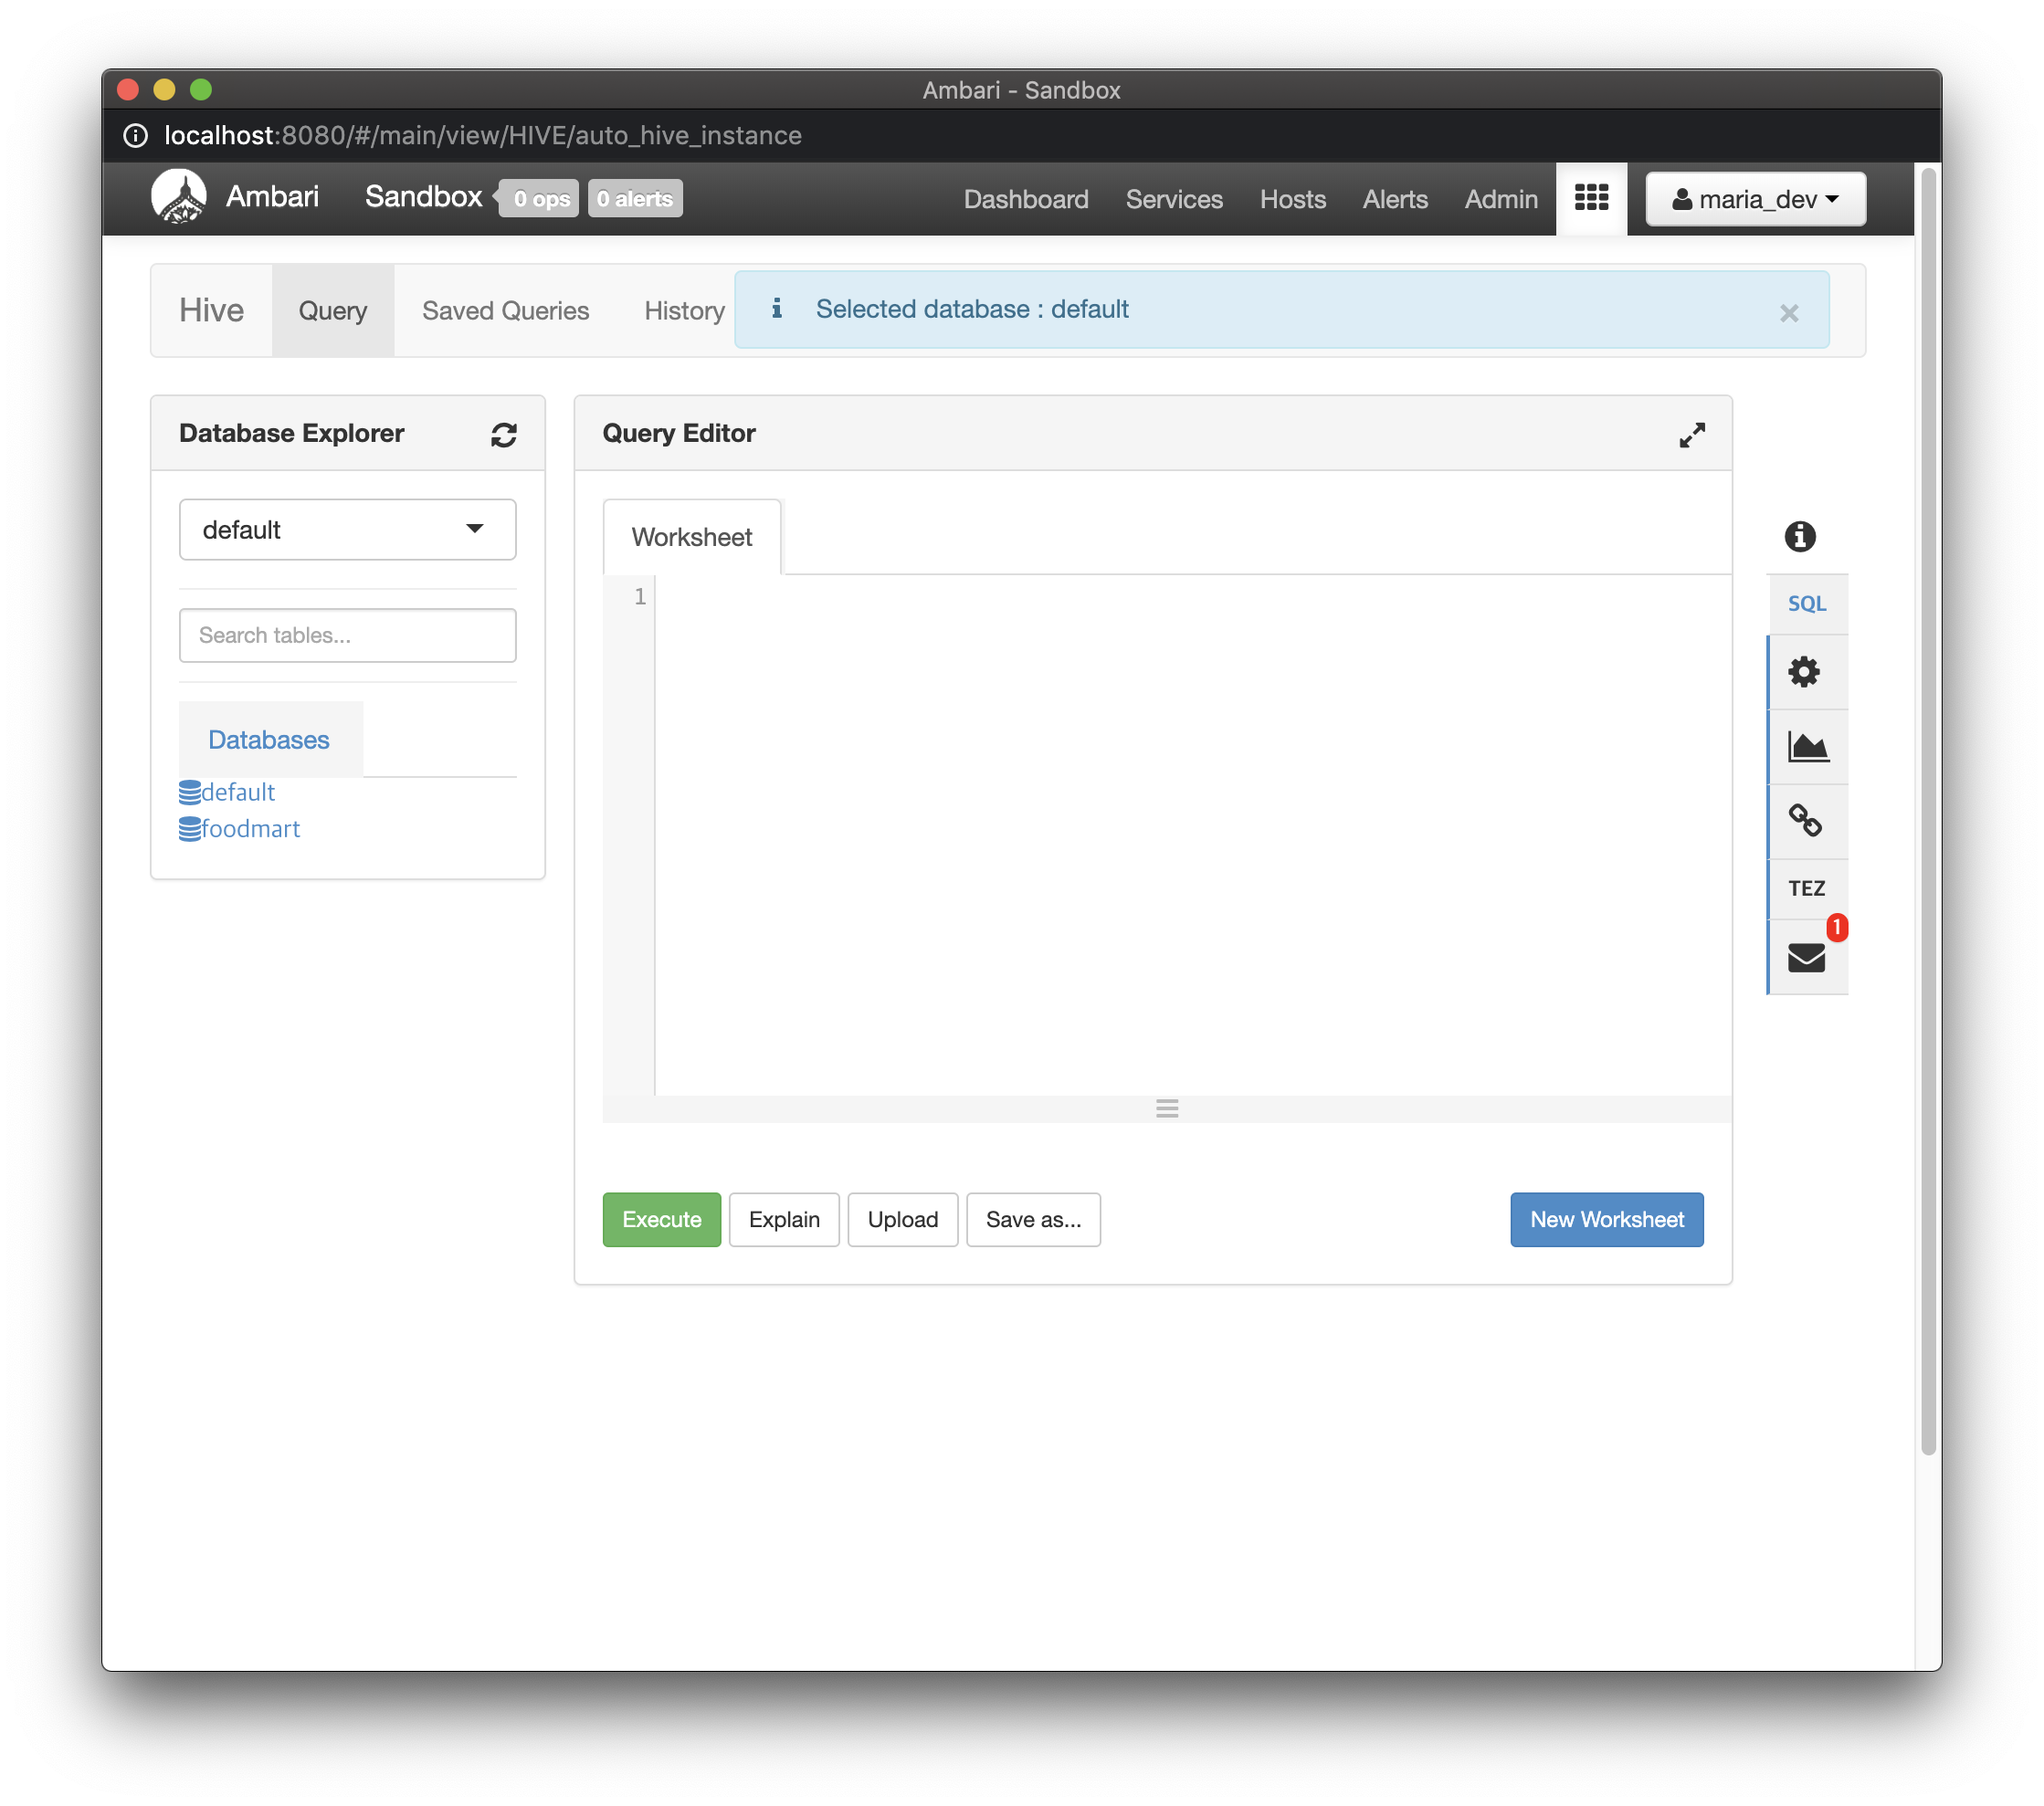
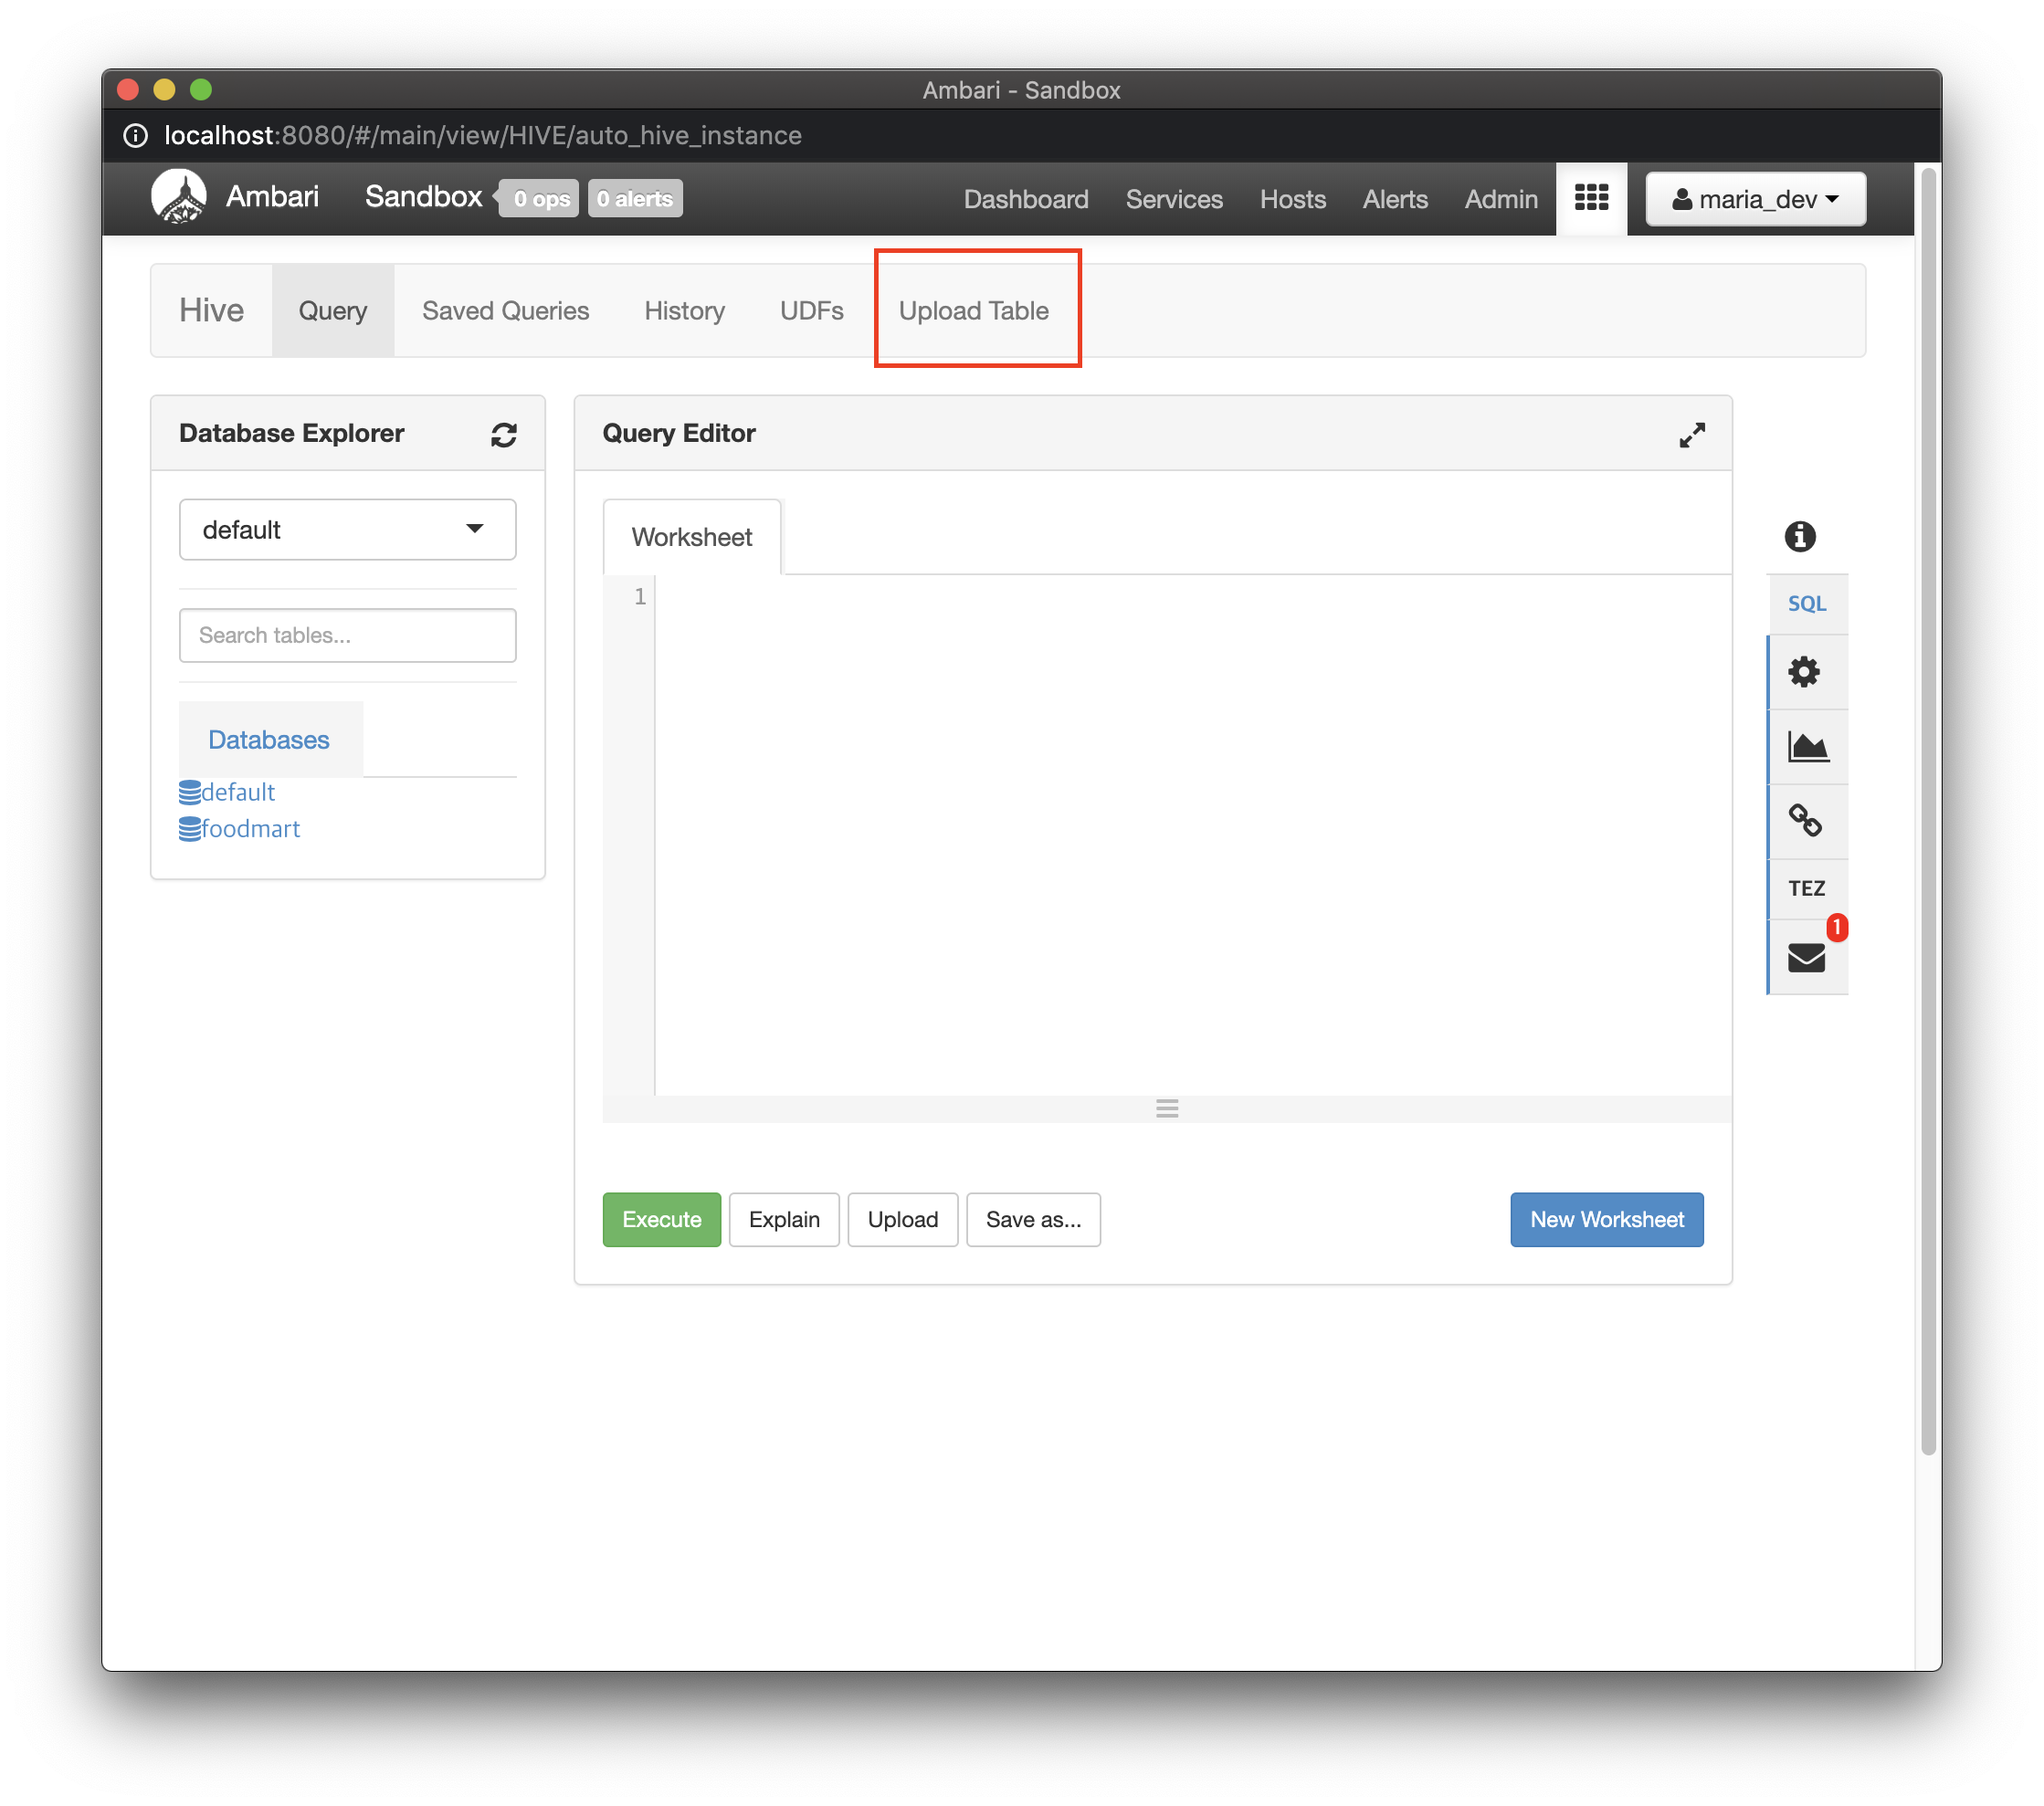
1223

Changed region(s): [[0.3391, 0.1234, 0.8941, 0.2159]]

diff --git a/_posts/2019-12-19-hadoop_01.md b/_posts/2019-12-19-hadoop_01.md
@@ -72,7 +72,7 @@ https://hongku.tistory.com/64
 
 ![PNG](/assets/img/post_img/2019-12-19-hadoop_01/img_02-7.png){: .align-center}
 
-웹 브라우저에서 Welcome Screen에 접속되면 `HDP` 설치가 정상적으로 된 것입니다. `LAUNCH DASHBOARD` 버튼을 누르고 ID, Password에 모두 `maria_dev`를 입력하여 로그인합니다.
+웹 브라우저에서 Welcome Screen에 접속되면 `HDP` 설치가 정상적으로 된 것입니다. `LAUNCH DASHBOARD` 버튼을 누르고 Username, Password에 모두 `maria_dev`를 입력하여 로그인합니다.
 
 <br>
 
@@ -83,14 +83,101 @@ Ambari 대시보드가 출력됩니다.
 
 ## 3.하둡에 데이터 임포트하기
 
-- 하둡에 임포트할 데이터 예제를 [Grouplens-Datasets](https://grouplens.org/datasets/movielens/)에서 `ml-100k.zip` 다운로드합니다.
-
 ![PNG](/assets/img/post_img/2019-12-19-hadoop_01/img_03-1.png){: .align-center}
+
+- 하둡에 임포트할 데이터 예제를 [Grouplens-Datasets](https://grouplens.org/datasets/movielens/)에서 `ml-100k.zip` 다운로드합니다. 압축 파일 내에 `u.data`와 `u.item`파일을 하둡에 임포트해보겠습니다. `u.data`는 영화에 대한 평점이 담겨 있는 `tab`으로 구분된 데이터이며, `u.item`은 영화 이름 등이 담겨 있는 `|(pipe)`로 구분된 데이터입니다.
 
 <br>
 
 ![PNG](/assets/img/post_img/2019-12-19-hadoop_01/img_03-2.png){: .align-center}
 
+우측 상단 메뉴 아이콘을 눌러 `Hive View`을 눌러줍니다.
+
 <br>
 
 ![PNG](/assets/img/post_img/2019-12-19-hadoop_01/img_03-3.png){: .align-center}
+
+Upload Table 탭을 눌러줍니다.
+
+<br>
+
+![PNG](/assets/img/post_img/2019-12-19-hadoop_01/img_03-4.png){: .align-center}
+
+설정 버튼을 눌러줍니다.
+
+<br>
+
+![PNG](/assets/img/post_img/2019-12-19-hadoop_01/img_03-5.png){: .align-center}
+
+`Field Delimiter`를 9번 항목으로 설정해줍니다.
+
+<br>
+
+![PNG](/assets/img/post_img/2019-12-19-hadoop_01/img_03-6.png){: .align-center}
+
+파일선택을 눌러줍니다.
+
+<br>
+
+![PNG](/assets/img/post_img/2019-12-19-hadoop_01/img_03-7.png){: .align-center}
+
+`u.data`파일을 업로드합니다.
+
+<br>
+
+![PNG](/assets/img/post_img/2019-12-19-hadoop_01/img_03-8.png){: .align-center}
+
+테이블 명과 필드 명을 설정해줍니다.
+
+<br>
+
+![PNG](/assets/img/post_img/2019-12-19-hadoop_01/img_03-9.png){: .align-center}
+
+같은 방식으로 두 번째 데이터 업로드를 진행합니다. 이번엔 `Field Delimiter`를 124번 항목으로 설정해줍니다.
+
+<br>
+
+![PNG](/assets/img/post_img/2019-12-19-hadoop_01/img_03-10.png){: .align-center}
+
+파일선택 버튼을 눌러 `u.item`파일을 업로드합니다.
+
+<br>
+
+![PNG](/assets/img/post_img/2019-12-19-hadoop_01/img_03-11.png){: .align-center}
+
+마찬가지로 테이블 명과 필드 명을 설정해줍니다.
+
+
+<br>
+
+## 4.Hive로 데이터 조회하기
+
+![PNG](/assets/img/post_img/2019-12-19-hadoop_01/img_04-1.png){: .align-center}
+
+`Query` 탭으로 이동해 SQL 쿼리를 작성합니다. 사람들이 평점을 많이 남긴 순으로 영화 리스트를 출력하겠습니다.
+
+<br>
+
+![PNG](/assets/img/post_img/2019-12-19-hadoop_01/img_04-2.png){: .align-center}
+
+쿼리 결과를 출력합니다. `movie_id`가 `50`인 영화가 가장 많은 리뷰를 가지고 있는 것을 확인했습니다.
+
+
+```sql
+SELECT movie_id, count(movie_id) as ratingCount
+FROM ratings
+GROUP BY movie_id
+ORDER BY ratingCount DESC;
+```
+
+<br>
+
+![PNG](/assets/img/post_img/2019-12-19-hadoop_01/img_04-3.png){: .align-center}
+
+`movie_id`가 `50`인 영화의 제목을 조회한 결과 스타워즈인 것을 확인할 수 있습니다.
+
+```sql
+SELECT name
+FROM movie_names
+WHERE movie_id = 50;
+```
